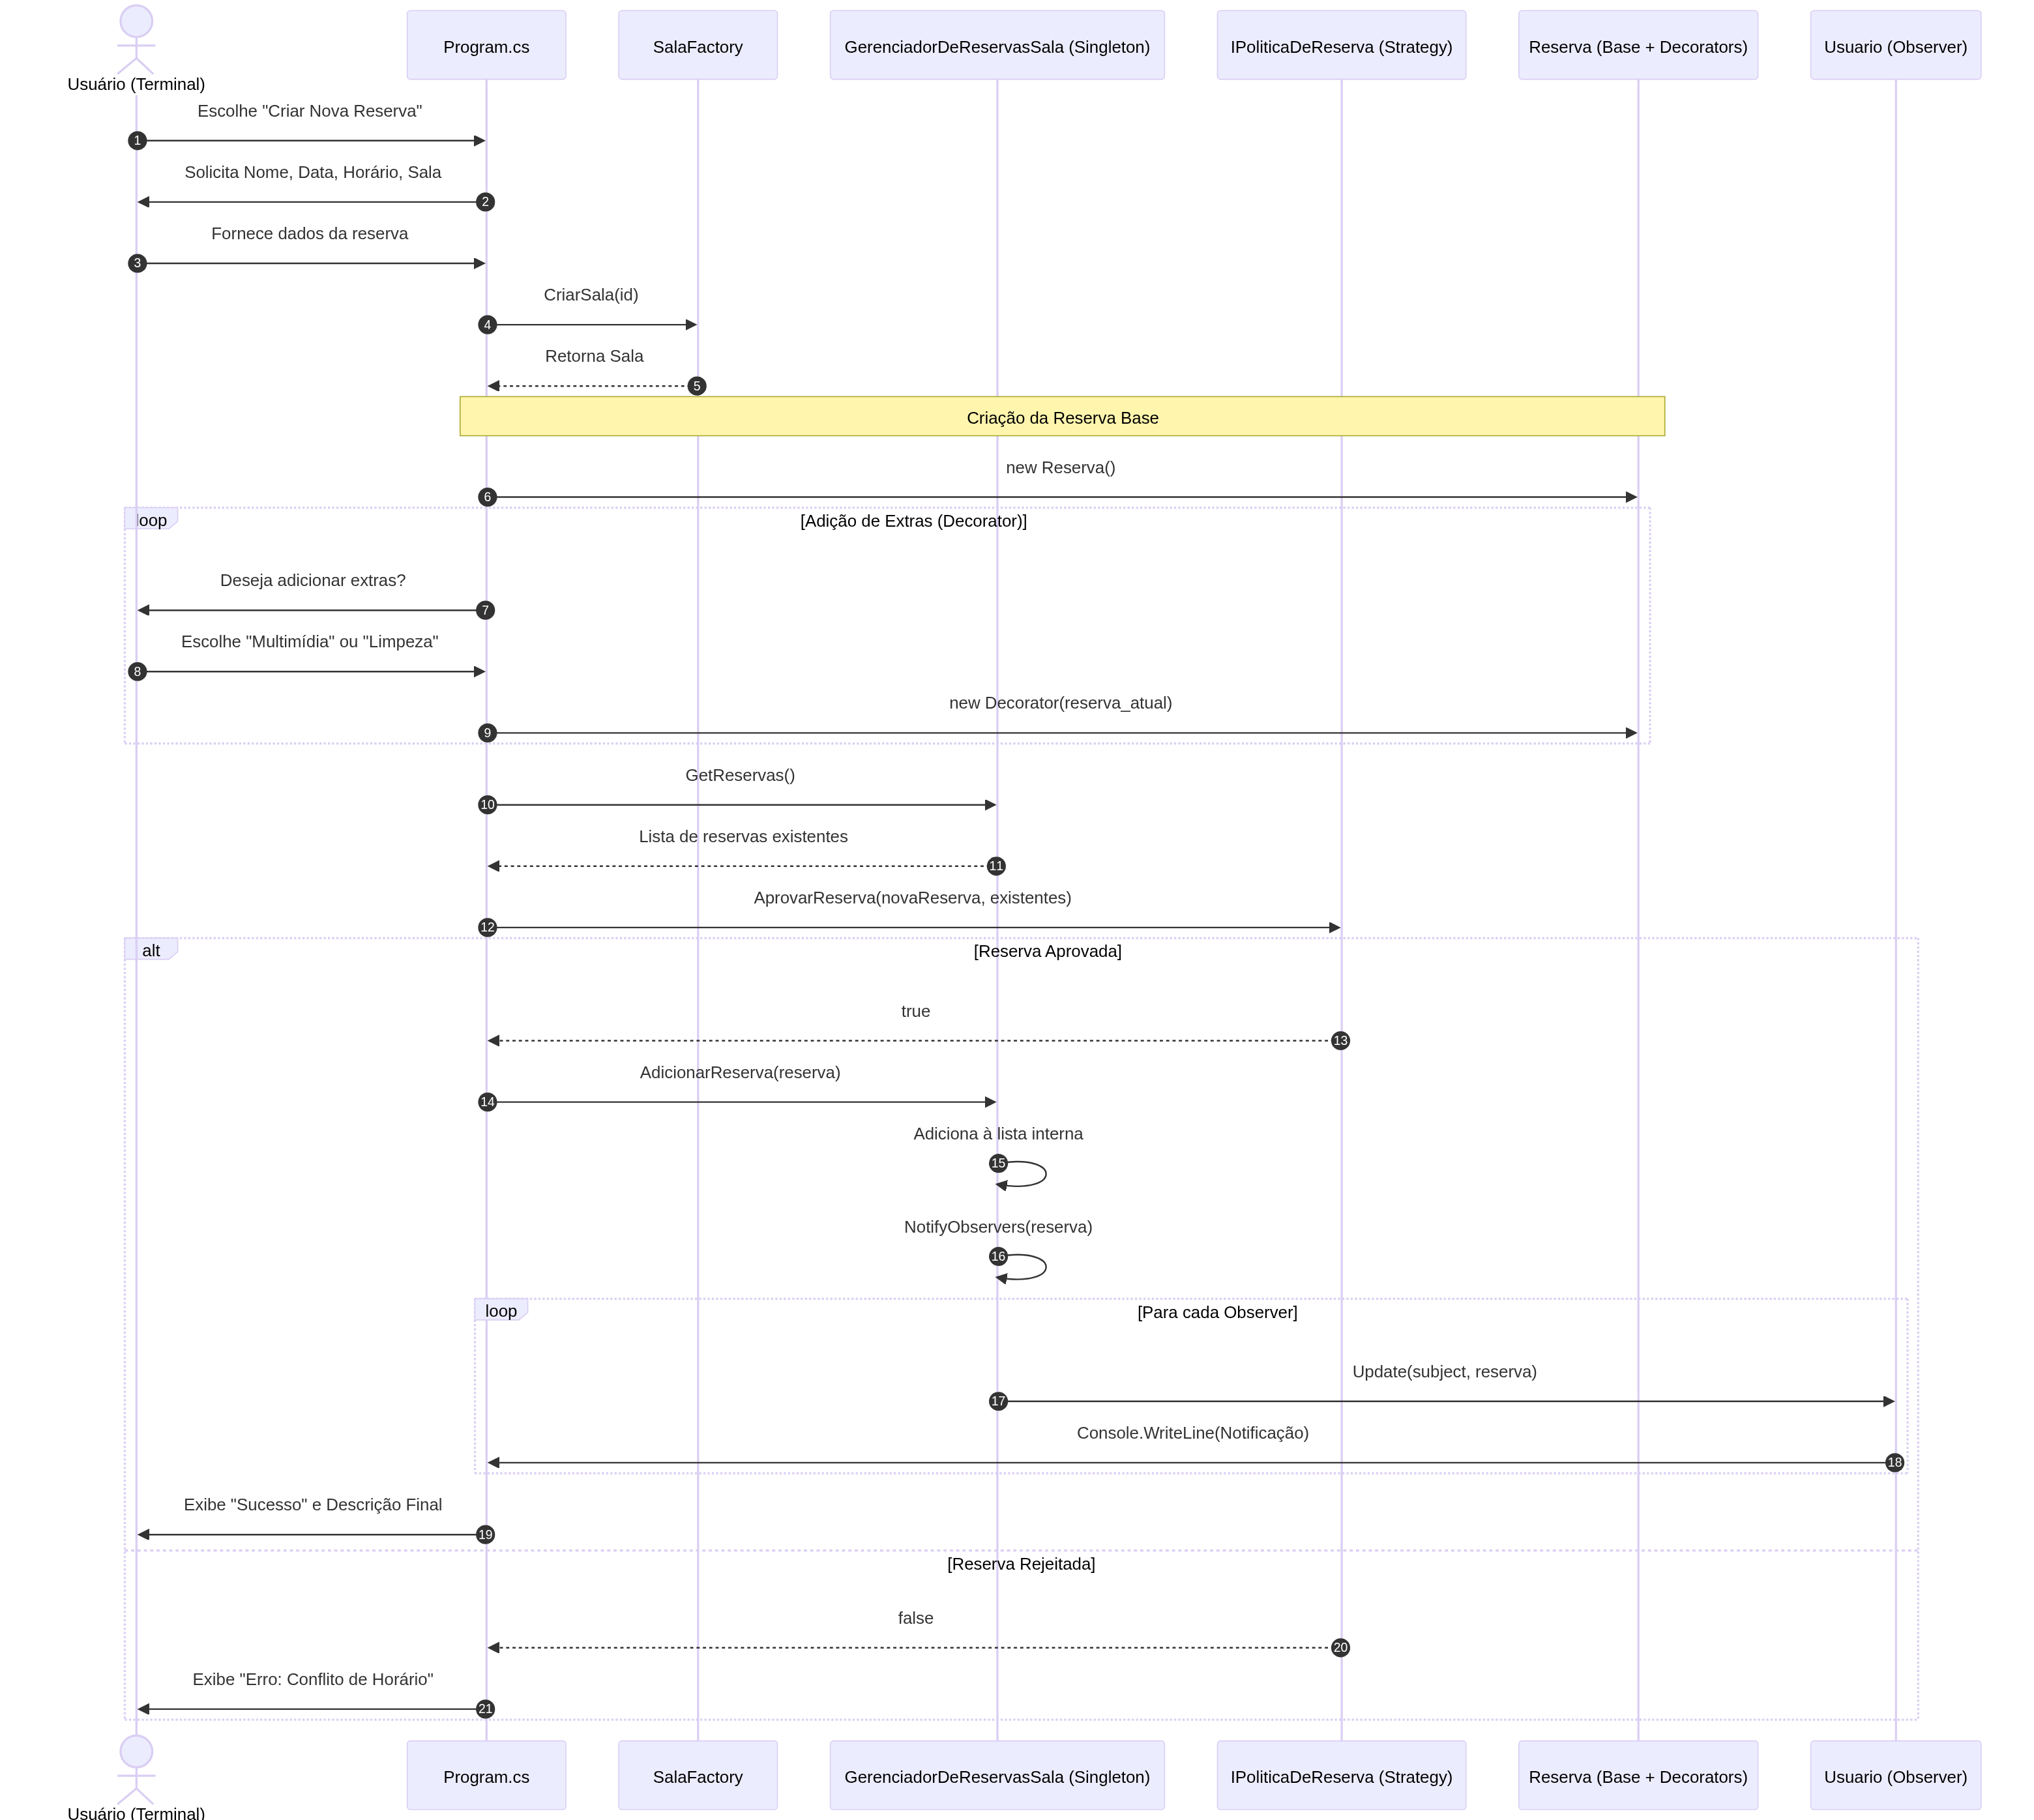
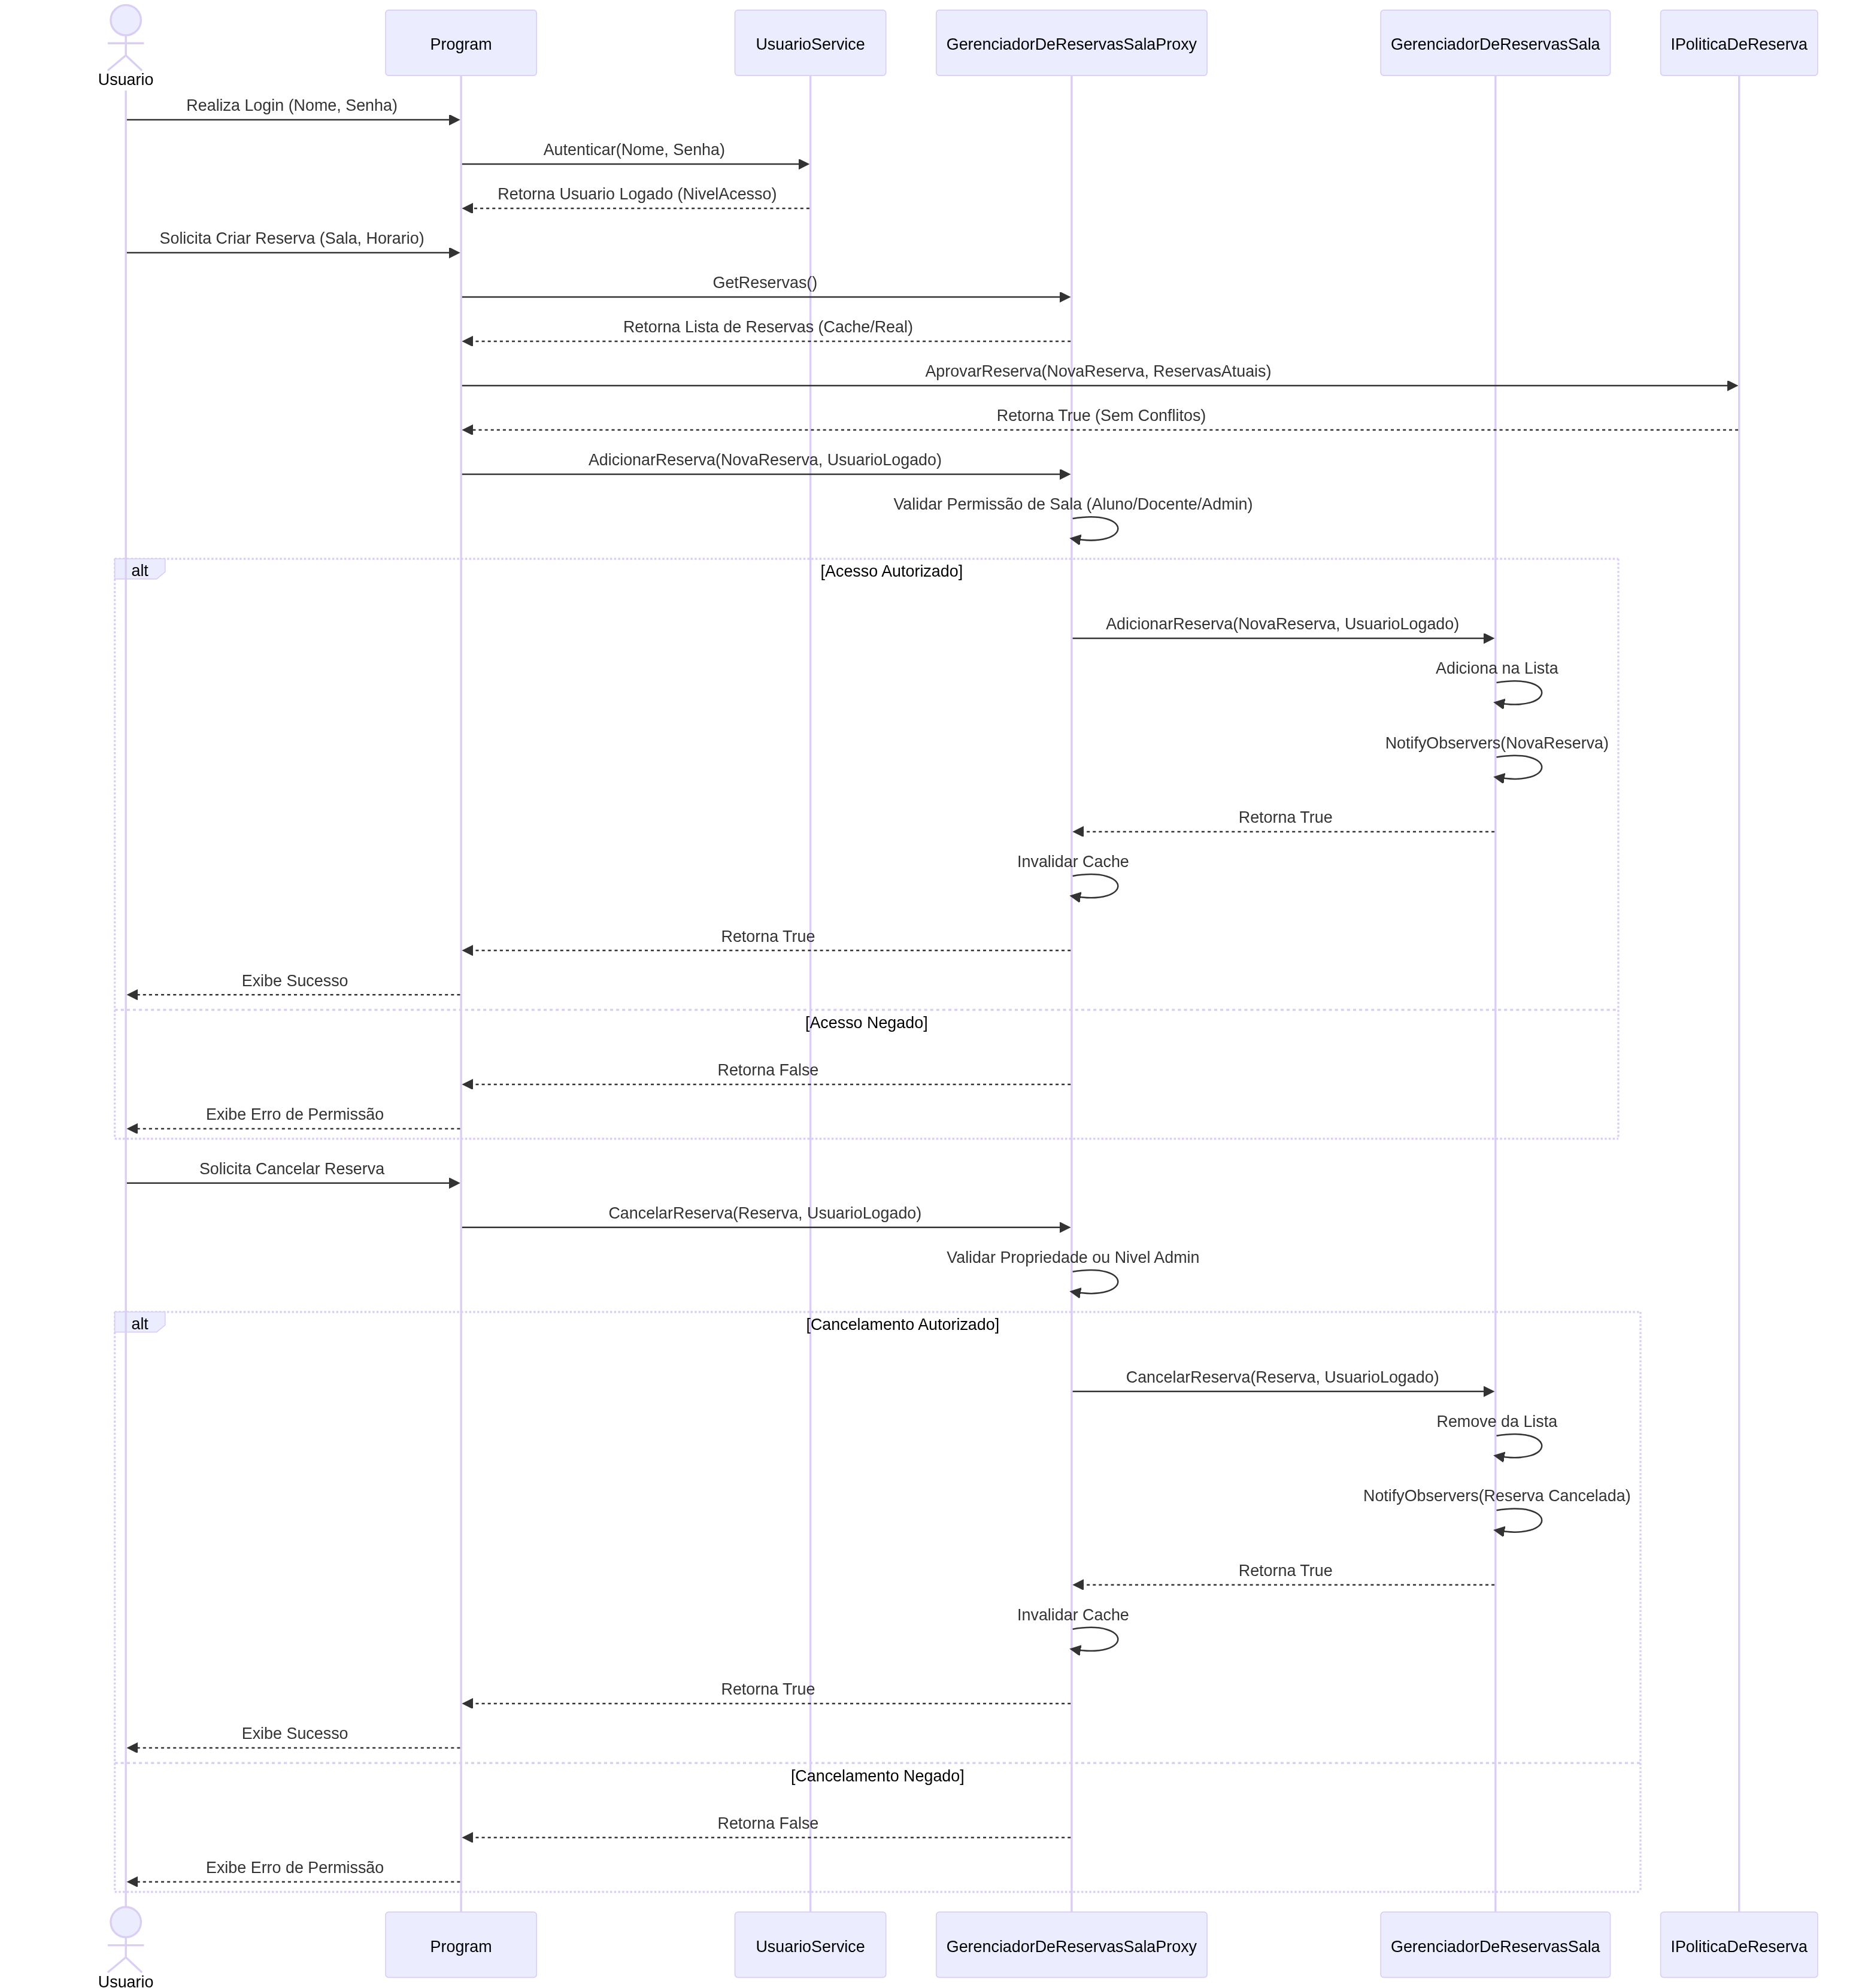
Documentação atualizada

diff --git a/README.md b/README.md
@@ -1,53 +1,101 @@
-# Sistema de Reserva de Salas de Estudo
+# Sistema de Reserva de Salas
 
+Este projeto implementa um sistema de reserva de salas utilizando C# e diversos padrões de projeto para garantir modularidade, extensibilidade e um controle de acesso robusto.
 
-## Visão Geral
+## Funcionalidades
 
-Este projeto é a modelagem e prototipagem de uma aplicação de "Reserva de Salas de Estudo" para um campus universitário. O objetivo principal é aplicar conceitos avançados de Projeto de Software Orientado a Objetos, com foco na lógica de domínio e na implementação de Padrões de Projeto (Design Patterns).
-
-
-## Requisitos Funcionais Implementados
-
-- **RF-01:** Listar salas disponíveis em um intervalo de datas.
-
-- **RF-02:** Permitir criação, modificação e cancelamento de reservas.
-
-- **RF-03:** Detectar e impedir colisões de horário.
-
-- **RF-04:** Sistema de notificação imediata para alterações/cancelamentos.
-
-- **RF-05:** Geração de relatório diário de reservas confirmadas.
-
-- **RF-06:** Implementação do Padrão Decorator para serviços extras
-
-
+- **Reserva de Salas:** Permite que usuários reservem diferentes tipos de salas (Estudo Individual, Trabalho em Grupo, Laboratório).
+- **Políticas de Reserva:** Suporta diferentes políticas para aprovação de reservas (e.g., Primeiro a Chegar, Prioridade para Docentes).
+- **Autenticação e Autorização:** Sistema de login e registro de usuários com diferentes níveis de acesso (Aluno, Docente, Admin).
+- **Persistência de Usuários:** Dados dos usuários são salvos em um arquivo JSON (`usuarios.json`).
+- **Controle de Acesso Refinado (Proxy):**
+    - **Alunos:** Podem reservar apenas salas de Estudo Individual e Trabalho em Grupo. Não podem cancelar reservas de outros usuários.
+    - **Docentes:** Podem reservar qualquer tipo de sala. Não podem cancelar reservas de outros usuários.
+    - **Administradores:** Podem reservar qualquer tipo de sala e cancelar qualquer reserva.
+- **Notificações:** Usuários são notificados sobre o status de suas reservas (via padrão Observer).
+- **Extras de Reserva (Decorator):** Possibilidade de adicionar equipamentos multimídia ou serviço de limpeza a uma reserva.
+- **Cache de Reservas (Proxy):** Otimização de desempenho para listagem de reservas, com cache de 10 segundos.
+- **Relatórios:** Geração de relatório diário de reservas.
+- **Interface de Linha de Comando (CLI):** Menu interativo para interação com o sistema.
 
 ## Padrões de Projeto Utilizados
 
-A arquitetura do sistema foi desenvolvida em **C#** e aplica os seguintes padrões GoF:
+- **Singleton:** `GerenciadorDeReservasSala` garante uma única instância para gerenciar todas as reservas.
+- **Factory Method:** `SalaFactory` (e suas implementações `SalaIndividualFactory`, `SalaGrupoFactory`, `SalaLaboratorioFactory`) para criar diferentes tipos de salas de forma flexível.
+- **Proxy:** `GerenciadorDeReservasSalaProxy` atua como um intermediário para adicionar controle de acesso (autenticação e autorização) e cache de listagem de reservas, sem modificar a lógica central do `GerenciadorDeReservasSala`.
+- **Decorator:** `EquipamentoMultimidiaDecorator` e `ServicoDeLimpezaDecorator` permitem adicionar funcionalidades extras a uma reserva dinamicamente.
+- **Observer:** `Usuario` implementa `IObserver` para receber notificações sobre atualizações de reservas, e `GerenciadorDeReservasSala` atua como `ISubject`.
+- **Strategy:** `IPoliticaDeReserva` (e suas implementações `PoliticaPrimeiroChegar`, `PoliticaPrioridadeDocente`) permite trocar a lógica de aprovação de reservas em tempo de execução.
 
-1. **Singleton:** Gerenciamento do repositório de reservas em memória, garantindo thread-safety.
+## Configuração e Execução
 
-2. **Factory Method:** Instanciação flexível de diferentes tipos de salas (Estudo Individual, Trabalho em Grupo, Laboratório).
+### Pré-requisitos
 
-3. **Strategy:** Dinamismo na política de detecção de colisões de reserva (ex: "primeiro a reservar" vs. "prioridade docente").
+- .NET SDK 6.0 ou superior.
 
-4. **Observer:** Mecanismo de push/pull para propagar eventos e notificações aos usuários envolvidos.
+### Como Executar
 
+1. **Navegue até o diretório do projeto:**
+   ```bash
+   cd ../projeto_reserva/ExercicioPraticoReservaDeSalas2
+   ```
+2. **Compile o projeto:**
+   ```bash
+   dotnet build
+   ```
+3. **Execute a aplicação:**
+   ```bash
+   dotnet run
+   ```
 
+### Uso do Sistema
 
-## Estrutura do Repositório
+Ao iniciar a aplicação, você será apresentado a um menu de login/registro:
 
-- `/src`: Código-fonte principal da aplicação.
+1. **Login:** Utilize um usuário existente. Por padrão, um usuário `admin` com senha `admin123` é criado automaticamente na primeira execução, caso não exista.
+2. **Registrar Novo Usuário:** Crie novos usuários com diferentes níveis de acesso (Aluno, Docente, Admin).
 
-- `/docs`: Diagramas e documentações complementares.
+Após o login, o menu principal permitirá:
 
+- **Criar Nova Reserva:** Faça uma reserva, escolhendo a sala, data, horário e adicionando extras (se desejar). As permissões de sala são validadas aqui.
+- **Listar Reservas Atuais:** Visualize todas as reservas ativas.
+- **Cancelar Reserva:** Cancele uma reserva existente. As permissões de cancelamento são validadas aqui.
+- **Alterar Política de Reserva:** Apenas administradores podem alterar a política de reserva (Primeiro a Chegar ou Prioridade para Docentes).
+- **Emitir Relatório Diário:** Gere um relatório das reservas para uma data específica.
+- **Logout:** Desconecta o usuário atual.
+- **Sair:** Encerra a aplicação.
 
+## Estrutura do Projeto
 
-## Autores
+```
+ExercicioPraticoReservaDeSalas2/
+├── src/
+│   ├── Program.cs                  # Ponto de entrada da aplicação, menu e fluxo principal.
+│   ├── Usuario.cs                  # Define a entidade Usuário e seu nível de acesso.
+│   ├── UsuarioService.cs           # Gerencia a persistência e autenticação de usuários (JSON).
+│   ├── IGerenciadorDeReservas.cs   # Interface para o gerenciador de reservas.
+│   ├── GerenciadorDeReservasSala.cs# Implementação concreta do gerenciador de reservas (Singleton).
+│   ├── GerenciadorDeReservasSalaProxy.cs # Proxy para controle de acesso e cache.
+│   ├── IObserver.cs, ISubject.cs   # Interfaces para o padrão Observer.
+│   ├── Reserva.cs                  # Entidade Reserva.
+│   ├── Sala.cs, SalaFactory.cs     # Classes base e fábrica para diferentes tipos de salas.
+│   ├── SalaEstudoIndividual.cs, SalaGrupo.cs, SalaLaboratorio.cs # Implementações de salas.
+│   ├── IPoliticaDeReserva.cs       # Interface para políticas de reserva.
+│   ├── PoliticaPrimeiroChegar.cs, PoliticaPrioridadeDocente.cs # Implementações de políticas.
+│   ├── EquipamentoMultimidiaDecorator.cs, ServicoDeLimpezaDecorator.cs # Decorators para extras.
+│   └── ... (outros arquivos de classes)
+├── docs/
+│   ├── funcionalidade_adicional.md # Documentação detalhada do padrão Proxy.
+│   └── diagrama_sequencia.png # Diagrama de sequência completo do Projeto
+├── usuarios.json                   # Arquivo de persistência dos usuários.
+└── ExercicioPraticoReservaDeSalas2.sln # Arquivo de solução do Visual Studio.
+```
 
-- Letícia Abrahão Moreira
+## Melhorias Futuras
 
-- Pedro Henrique Novello D'Elia Porto de Almeida 
-
-- Enrico Manzolli Bertoni (Extensão)
+- **Persistência de Reservas:** Atualmente, as reservas são voláteis e perdidas ao encerrar a aplicação. Implementar persistência (e.g., em JSON, XML ou banco de dados) para as reservas.
+- **Validação de Conflitos de Horário:** Refinar a lógica de validação para cenários mais complexos (e.g., reservas parciais, sobreposição de datas).
+- **Interface Gráfica:** Desenvolver uma interface de usuário mais amigável (e.g., via ASP.NET Core, WPF ou Blazor).
+- **Testes Unitários:** Adicionar testes unitários para as classes de lógica de negócio e padrões de projeto.
+- **Notificações Assíncronas:** Implementar um sistema de notificação mais robusto, talvez com filas de mensagens ou eventos.
+- **Gerenciamento de Salas:** Adicionar funcionalidades para criar, editar e remover salas dinamicamente.

diff --git a/docs/funcionalidade_adicional.md b/docs/funcionalidade_adicional.md
@@ -1,9 +1,20 @@
-# Funcionalidade Adicional: Controle de Acesso e Cache(Padrão Proxy)
+# Funcionalidade Adicional: Controle de Acesso e Cache (Padrão Proxy)
 
 ## 1. Descrição da Funcionalidade
 Esta extensão do projeto introduz uma camada intermediária de inteligência no sistema de reservas através do padrão de projeto Proxy. A implementação foca em dois pilares:
 
-**Controle de Acesso:** O sistema agora diferencia as permissões com base no `NivelAcesso` do usuário (Aluno, Docente ou Admin). Operações críticas, como o cancelamento de reservas, são restritas a usuários autorizados, enquanto a adição de reservas exige validação de nível antes de ser processada pelo objeto real.
+**Controle de Acesso Refinado:** O sistema agora diferencia as permissões com base no `NivelAcesso` do usuário (Aluno, Docente ou Admin) e na propriedade da reserva. As regras são as seguintes:
+
+- **Alunos:**
+    - Podem reservar apenas salas do tipo "Estudo Individual" e "Trabalho em Grupo".
+    - Não podem cancelar reservas feitas por outros usuários.
+- **Docentes:**
+    - Podem reservar qualquer tipo de sala, incluindo "Laboratório".
+    - Não podem cancelar reservas feitas por outros usuários.
+- **Administradores:**
+    - Podem reservar qualquer tipo de sala.
+    - Podem cancelar *qualquer* reserva, independentemente de quem a fez.
+
 **Cache de Dados:** Para otimizar o desempenho, a listagem de reservas é armazenada em cache por um período de 10 segundos. Consultas consecutivas dentro deste intervalo são servidas instantaneamente pelo Proxy, reduzindo o processamento no gerenciador principal. O cache é invalidado automaticamente sempre que uma nova reserva é adicionada ou cancelada.
 
 ## 2. Justificativa do Padrão de Projeto
@@ -13,3 +24,5 @@ A escolha do padrão Proxy é justificada pela necessidade de adicionar regras (
 O sistema conta com um cenário de teste automático na inicialização (classe `Program`) que demonstra:
 1.  A recuperação de dados via cache em chamadas consecutivas.
 2.  O bloqueio de segurança ao tentar realizar operações sem o nível de privilégio necessário.
+
+Além disso, o menu interativo permite testar todas as regras de controle de acesso para adição e cancelamento de reservas, bem como a alteração de políticas (restrita a administradores).